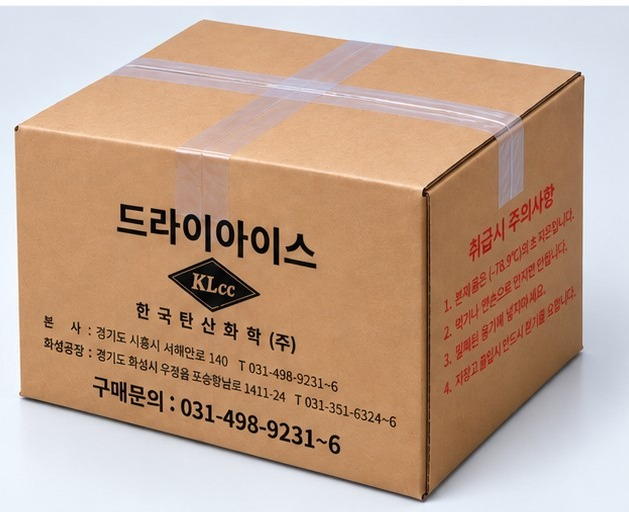
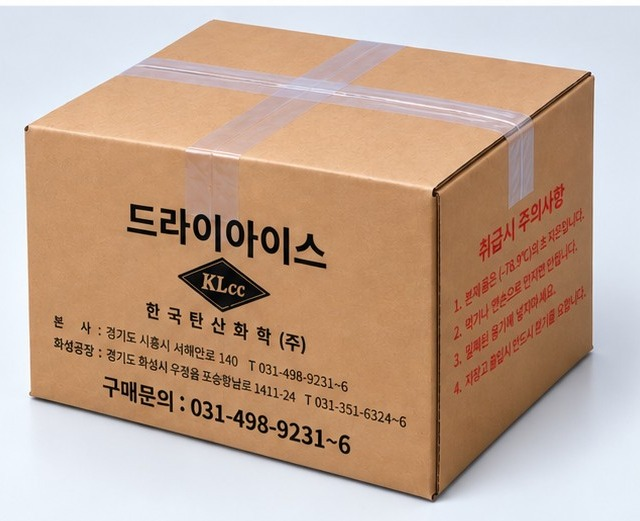
드라이아이스 블록 포장 프로세스 3번 사진 3% 추가 축소(누적). proc3.jpg?v=i

diff --git a/products-ice.html b/products-ice.html
@@ -415,7 +415,7 @@
                 <ol class="proc4">
                   <li class="proc4__step"><div class="proc4__media"><img src="assets/images/site/icespec/proc1.jpg?v=20260911b" alt="비닐 라이너 준비" loading="lazy"></div><b><span class="proc4__n">1</span>비닐 라이너 준비</b><p>박스 안에 비닐(라이너)을 깔아줍니다.</p></li>
                   <li class="proc4__step"><div class="proc4__media"><img src="assets/images/site/icespec/proc2.jpg?v=20260911d" alt="블록 담기" loading="lazy"></div><b><span class="proc4__n">2</span>블록 담기</b><p>드라이아이스 블록을 담습니다.</p></li>
-                  <li class="proc4__step"><div class="proc4__media"><img src="assets/images/site/icespec/proc3.jpg?v=20260911h" alt="박스 포장" loading="lazy"></div><b><span class="proc4__n">3</span>박스 포장</b><p>내용물이 담긴 박스를 밀봉하여 포장합니다.</p></li>
+                  <li class="proc4__step"><div class="proc4__media"><img src="assets/images/site/icespec/proc3.jpg?v=20260911i" alt="박스 포장" loading="lazy"></div><b><span class="proc4__n">3</span>박스 포장</b><p>내용물이 담긴 박스를 밀봉하여 포장합니다.</p></li>
                   <li class="proc4__step"><div class="proc4__media"><img src="assets/images/site/icespec/proc4.jpg?v=20260911b" alt="외부 비닐 포장" loading="lazy"></div><b><span class="proc4__n">4</span>외부 비닐 포장</b><p>외부 비닐로 한 번 더 포장하여 출고합니다.</p></li>
                 </ol>
               </div>
